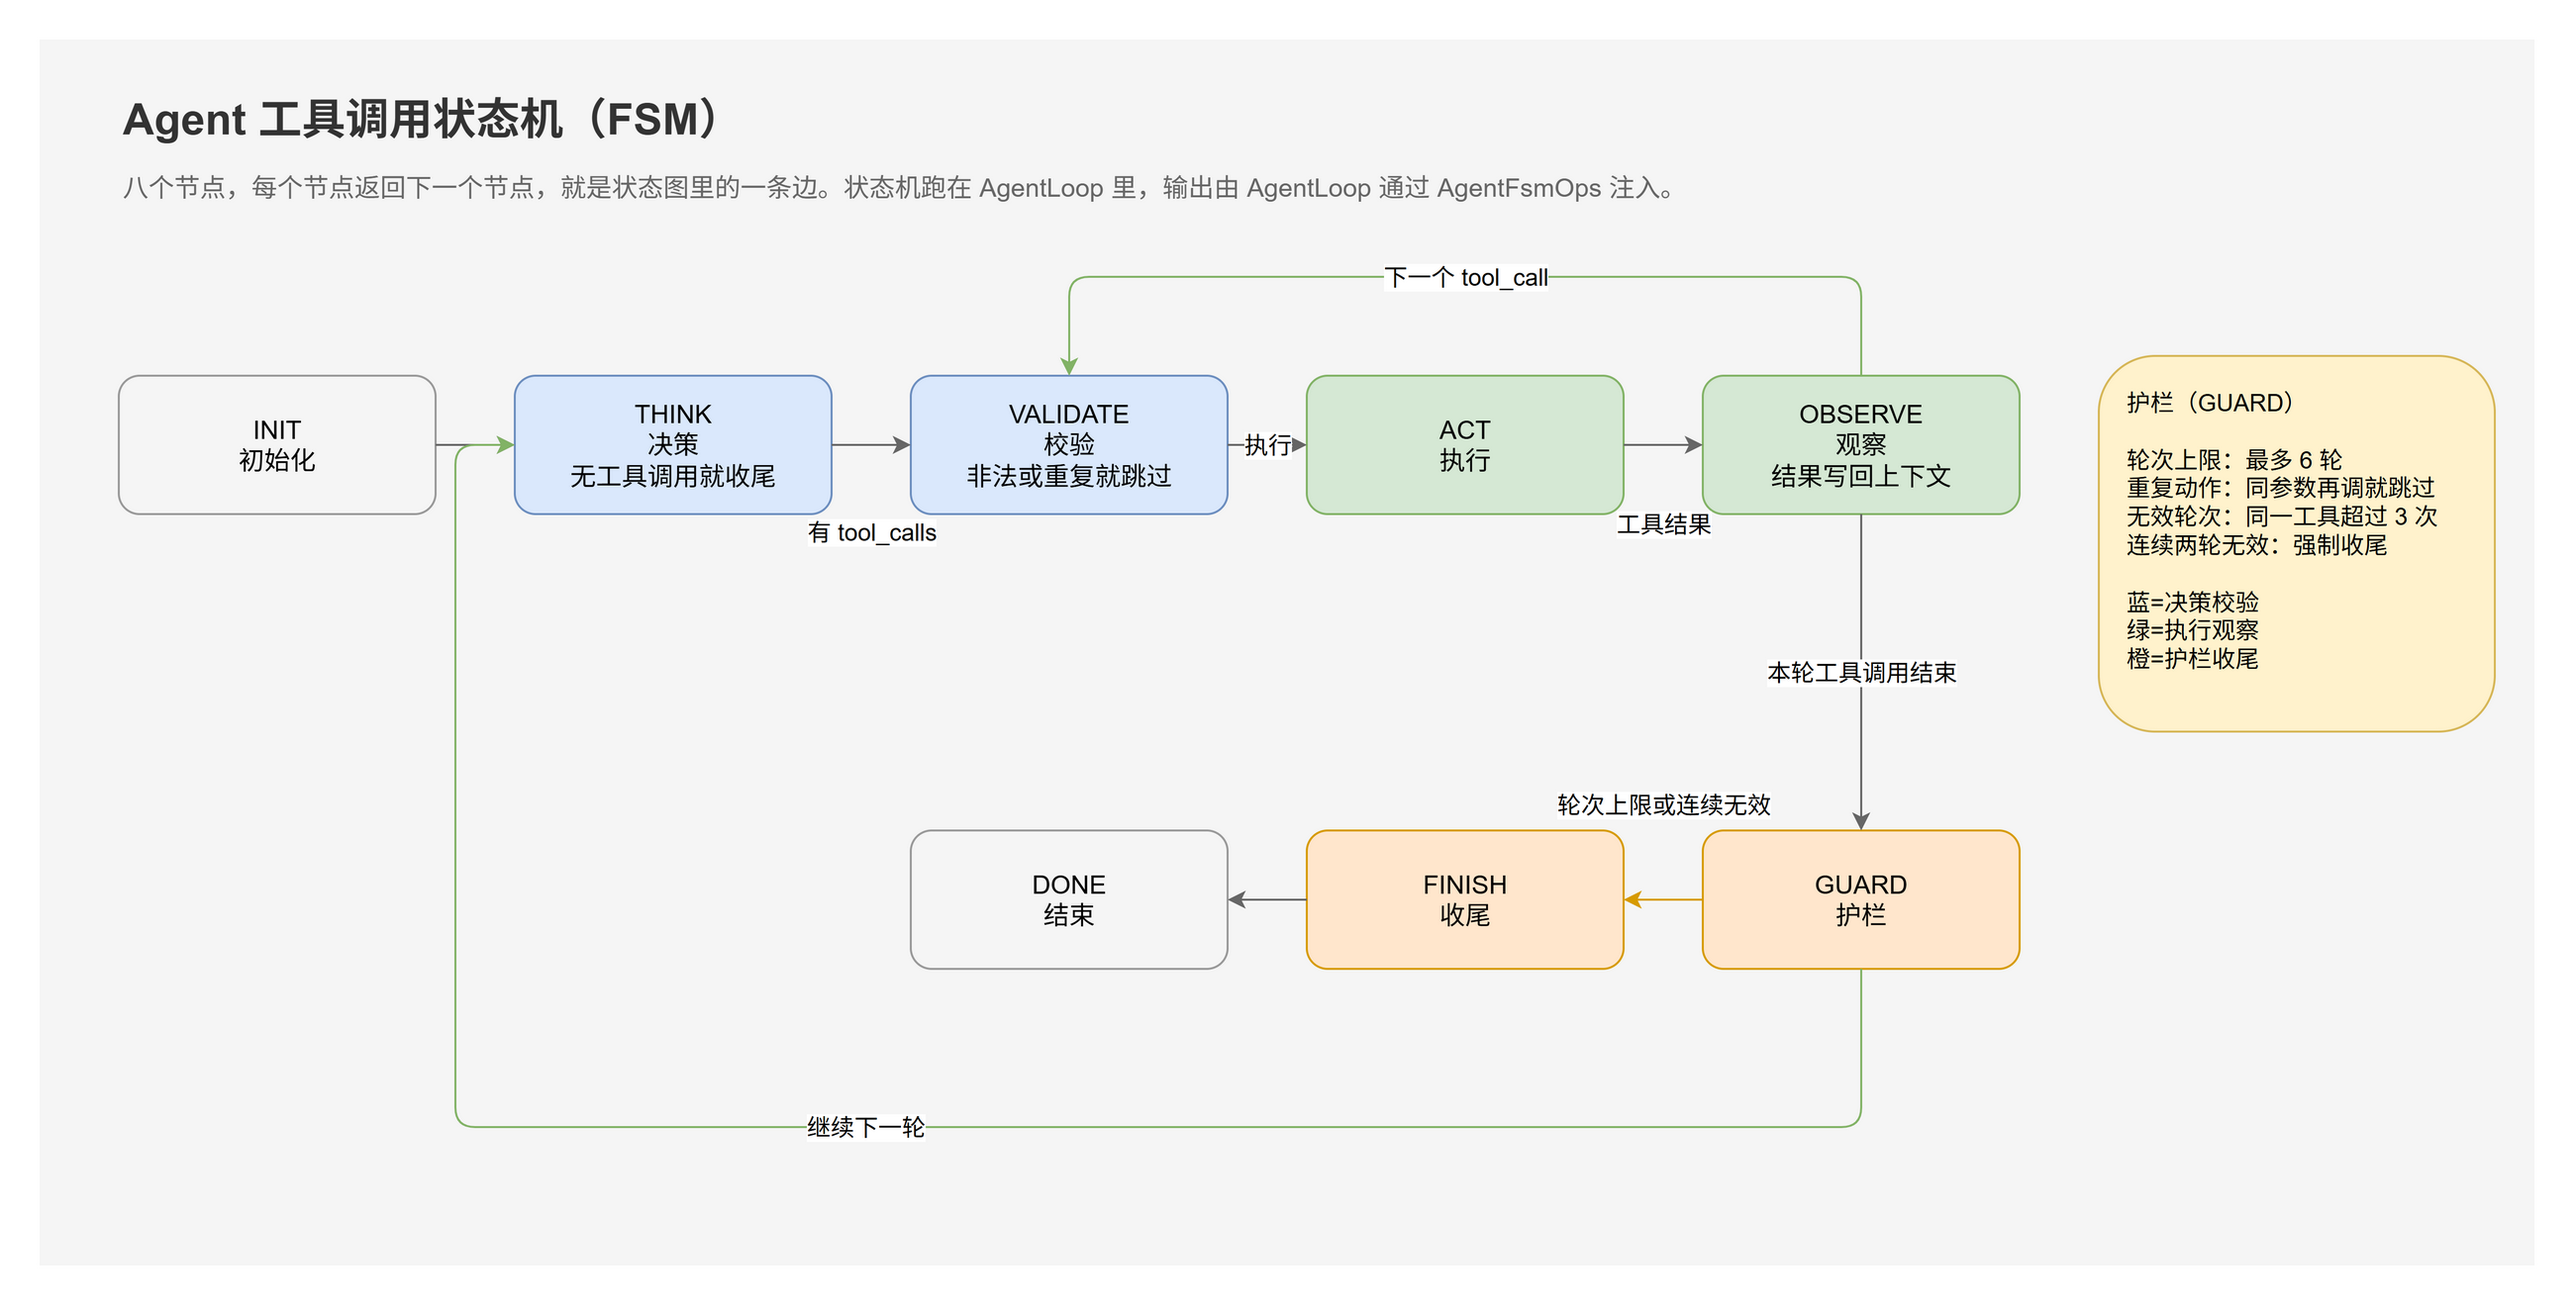
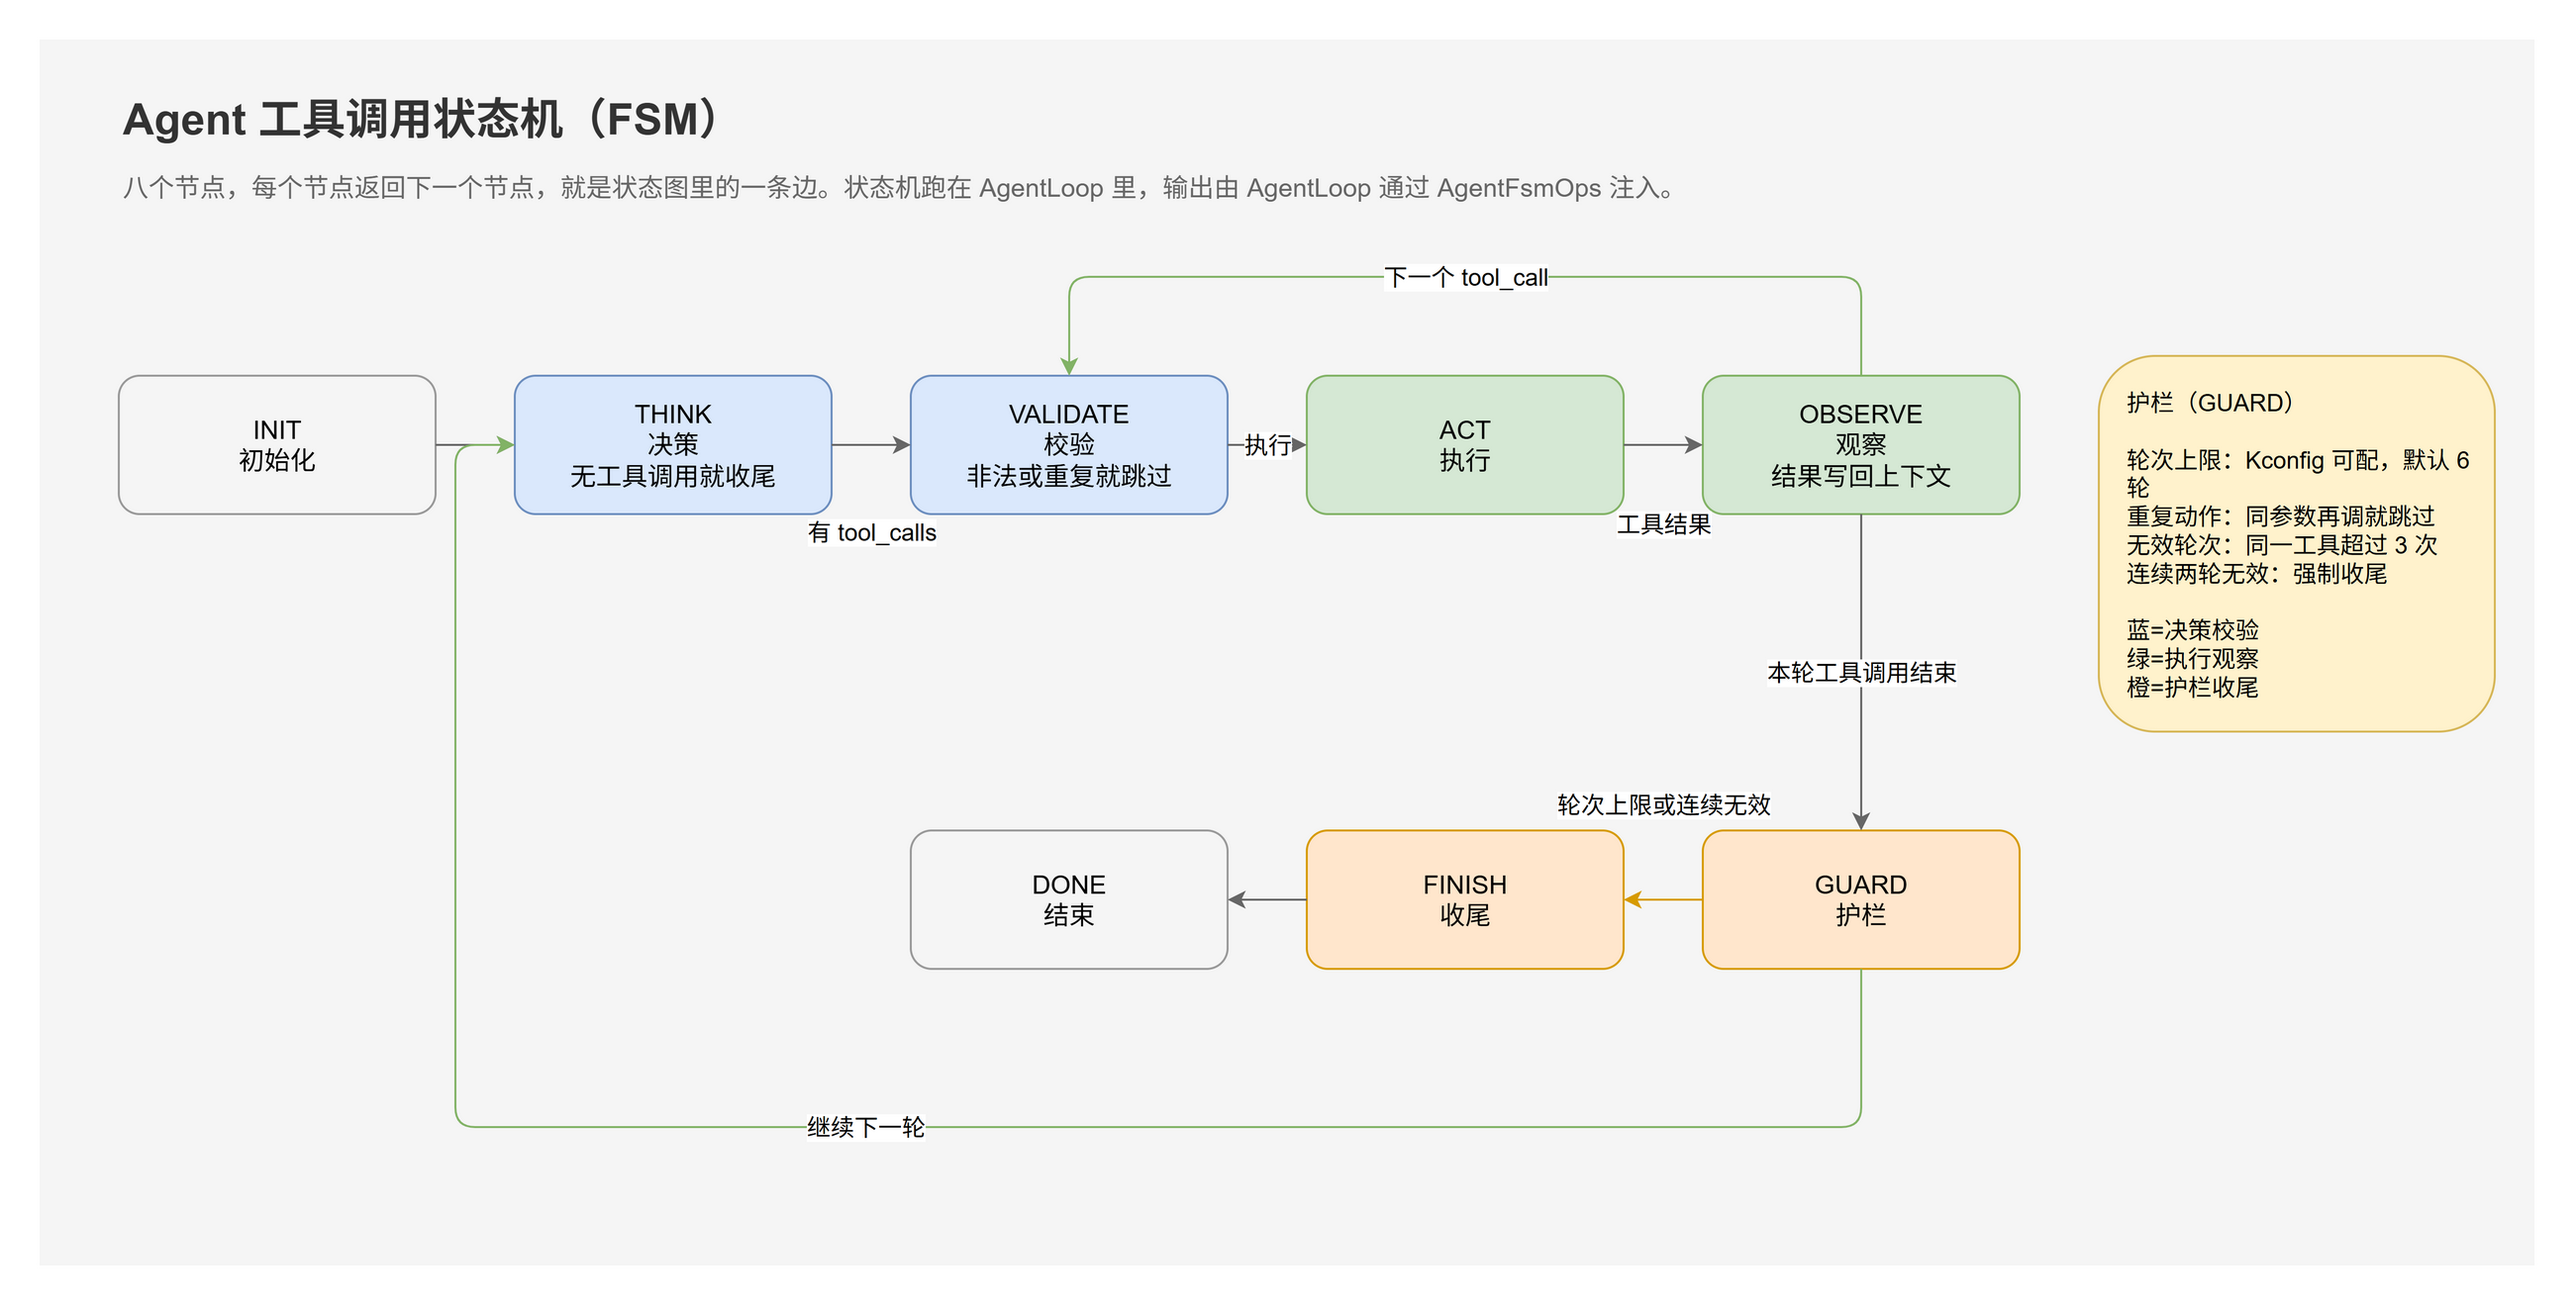
docs: 同步工具循环轮数的 Kconfig 说明
README、framework、tool_guide、api 里原先写死"最多 6 轮"，现在改成
引用 PKG_AGENT_TOOL_LOOP_MAX 并标出默认值与取值范围。README 的选项
表和 framework 的宏表各补一行，状态机图里的护栏说明改成"Kconfig 可配"。

时序图里两处轮次描述一并改成引用宏名，图片重新导出。

Changed region(s): [[0.8094, 0.3411, 0.965, 0.5272]]

diff --git a/README.md b/README.md
@@ -7,7 +7,7 @@
 ## 功能
 
 - 流式对话：解析 SSE 响应，分别处理思考过程、回答正文与工具调用。
-- 工具调用：内置 `add`、`mul`、`compare` 三个示例工具、设备框架工具与 7 个 MQTT 工具，工具循环最多 6 轮。设备框架工具分通用层（7 个）与 8 个设备类模块（22 个），按 Kconfig 取舍。
+- 工具调用：内置 `add`、`mul`、`compare` 三个示例工具、设备框架工具与 7 个 MQTT 工具，工具循环轮数由 Kconfig 选项 `PKG_AGENT_TOOL_LOOP_MAX` 决定，默认 6 轮。设备框架工具分通用层（7 个）与 8 个设备类模块（22 个），按 Kconfig 取舍。
 - 设备框架工具：通用层 7 个工具统一走 `rt_device_*`，屏蔽具体驱动。GPIO、PWM、ADC、DAC、I2C、SPI、传感器、LED 八类各一个 `.c`，封装本类的专用 API。
 - 技能模块：`skills/*.md` 在构建时编进固件，目录注入系统提示词，模型按需加载正文。
 - 上下文管理：历史超过阈值时用滚动摘要压缩，压缩失败保留原始历史。
@@ -227,7 +227,7 @@ draw.io 源文件：[llm-protocol.drawio](./docs/diagrams/llm-protocol.drawio)
 
 工具循环由状态机驱动，节点与边的对应关系见 [框架文档](./docs/framework.md) 3.1。每轮由 `THINK` 节点向模型发一次请求。模型返回 `tool_calls` 时，框架先追加带 `tool_calls` 的 assistant 消息，再逐个校验并执行工具，把结果以 `role=tool` 消息写回上下文，然后进入下一轮。
 
-- 最多 6 轮工具调用。达到上限后，再发一次不带工具的请求，要求模型给出最终回答。
+- 最多跑几轮工具调用由 Kconfig 选项 `PKG_AGENT_TOOL_LOOP_MAX` 决定，默认 6，取值范围 1～32。达到上限后，再发一次不带工具的请求，要求模型给出最终回答。
 - 请求失败最多尝试 3 次，间隔依次为 1 s、2 s。
 - 同一工具、同一参数重复调用时，不再执行，直接返回“结果未变化，请直接回答”的 tool 消息。
 - 同一次用户请求中，同一工具调用超过 3 次时仍会执行，但计为无效轮次。连续两轮全部是无效调用时，强制模型用文本回答。
@@ -328,6 +328,7 @@ menuconfig 路径是 Agent 包 → `Agent Tool: Device Framework`。内核条件
 | `PKG_AGENT_STT_ENABLE` / `PKG_AGENT_STT_URL` | 本地语音转写开关与接口地址 |
 | `PKG_AGENT_DRIVER_AUDIO` | 音频驱动，独立于多模态 |
 | `PKG_AGENT_TOOL_MQTT_ENABLE` | MQTT 工具开关 |
+| `PKG_AGENT_TOOL_LOOP_MAX` | 一次请求最多跑几轮工具调用，默认 6，取值范围 1～32 |
 | `PKG_AGENT_TOOL_DEVICE` 与 `PKG_AGENT_TOOL_DEVICE_*` | 设备框架工具总开关与八个类模块开关 |
 | `PKG_AGENT_TOOL_MCP_ENABLE` | MCP 客户端开关，默认关闭 |
 | `PKG_AGENT_MCP_SERVER_URL` | MCP 服务端地址，默认 `http://192.168.1.100:8765/mcp` |
@@ -377,7 +378,7 @@ python -B build/skill_qemu/run_llm_live.py
 | 看不到思考过程 | 提供方使用 `reasoning_content` 字段 | 框架同时识别 `reasoning_content` 和 `reasoning` |
 | 工具参数不完整 | 流式分片的 `id` / `name` 为 `null` | 框架按 `index` 合并，缺失 `id` 时用 `call_<index>` 兜底 |
 | 日志出现 `-0x4c` 或 `http status=-76` | TLS 连接被对端或网络重置 | 请求会自动重试 3 次；同时降低上报频率，或调大 MQTT 注入间隔 |
-| 模型反复调用同一个工具 | 工具结果为空，或模型不认可结果 | 重复调用会被跳过；连续两轮无效调用或达到 6 轮时强制文本回答 |
+| 模型反复调用同一个工具 | 工具结果为空，或模型不认可结果 | 重复调用会被跳过；连续两轮无效调用或达到 `PKG_AGENT_TOOL_LOOP_MAX` 轮时强制文本回答 |
 | CLI 看不到兜底提示 | 兜底文本只投递输出邮箱时，CLI 不显示 | 兜底文本由 `agent_notify()` 同时走流式打印；仍看不到就检查通道是否实现了 `on_context` |
 | 未启动 MQTT 时查询报 `mqtt state busy` | 状态锁只在客户端启动时创建，未启动就取不到 | 锁为幂等懒创建，未启动也能读订阅表和历史 |
 | STT 转写失败 | 地址错误、服务未启动、模型未下载 | 检查 `PKG_AGENT_STT_URL`，确认文件服务器 `/stt` 可用 |

diff --git a/docs/framework.md b/docs/framework.md
@@ -80,7 +80,7 @@ draw.io 源文件：[agent-fsm.drawio](diagrams/agent-fsm.drawio)
 
 `agent_loop` 的规则：
 
-- 工具循环最多 6 轮，`AGENT_LOOP_MAX` 定义在 `inc/AgentFsm.h` 里，不是 Kconfig 选项。
+- 工具循环最多跑几轮由 Kconfig 的 `PKG_AGENT_TOOL_LOOP_MAX` 决定，默认 6，取值范围 1～32。`inc/AgentFsm.h` 里的 `AGENT_LOOP_MAX` 读取这个宏。
 - 每轮由 `THINK` 节点调一次 `chat()`。请求失败最多尝试 3 次，退避间隔为 1 s、2 s。
 - `THINK` 判定没有 `tool_calls` 时，本轮回答即为最终回答，转 `FINISH`。
 - 有 `tool_calls` 时，先追加带 `tool_calls` 的 assistant 消息，再由 `VALIDATE` 逐个校验、`ACT` 执行、`OBSERVE` 写回。
@@ -88,7 +88,7 @@ draw.io 源文件：[agent-fsm.drawio](diagrams/agent-fsm.drawio)
 - `VALIDATE` 发现同一工具调用超过 3 次时仍会执行，但计为无效调用。
 - `GUARD` 发现连续两轮全部是重复或无效调用时，跳出循环，强制生成文本回答。
 - 重复签名缓存与工具计数在 `INIT` 节点清零，不跨用户请求累计。
-- `GUARD` 判定达到 6 轮上限时转 `FINISH`，`FINISH` 再发一次不带工具的请求，要求模型给出最终回答。
+- `GUARD` 判定达到轮次上限时转 `FINISH`，`FINISH` 再发一次不带工具的请求，要求模型给出最终回答。
 - 工具不存在、参数不是合法 JSON、参数校验失败时，`OBSERVE` 补一条 tool 错误消息，保证每个 `tool_call_id` 都有结果。
 
 状态机不碰邮箱和 TTS，这两件事由 `AgentLoop.c` 通过 `AgentFsmOps` 注入：`emit_answer` 输出最终回答，`notify` 投递兜底提示。
@@ -395,7 +395,7 @@ sequenceDiagram
     ML->>ML: 追加 user 消息
     ML->>FSM: agent_fsm_run()，进入 INIT
 
-    loop 最多 6 轮
+    loop 最多 PKG_AGENT_TOOL_LOOP_MAX 轮（默认 6）
         Note over FSM,LLM: THINK 节点请求失败最多重试 3 次，间隔 1 s、2 s
         FSM->>LLM: chat()，流式请求
         LLM-->>FSM: reasoning / content / tool_calls
@@ -418,7 +418,7 @@ sequenceDiagram
         end
     end
 
-    opt 达到 6 轮或连续两轮无效调用
+    opt 达到轮次上限或连续两轮无效调用
         FSM->>LLM: chat(tools=NULL) 收尾
         LLM-->>FSM: 纯文本回答
         FSM->>MB: 输出最终回答
@@ -516,6 +516,7 @@ sequenceDiagram
 | `PKG_AGENT_STREAM_LINE_BUFSZ` | SSE 单行缓冲，默认 1024 |
 | `PKG_AGENT_MAX_TOOL_ARG_LEN` | 工具参数上限，默认 1024 |
 | `PKG_AGENT_MESSAGE_TRIM` | 上下文压缩触发阈值，默认 6；排除 system 和摘要后，消息数严格大于此值才尝试压缩 |
+| `PKG_AGENT_TOOL_LOOP_MAX` | 一次请求最多跑几轮工具调用，默认 6，取值范围 1～32 |
 
 沿用 `PKG_AGENT_MESSAGE_TRIM` 配置名，帮助说明已改为摘要压缩语义。它不再表示固定保留条数，最近消息的保留范围见 3.3。
 

diff --git a/docs/tool_guide.md b/docs/tool_guide.md
@@ -465,7 +465,7 @@ AGENT_TOOL_MODULE_EXPORT(pwm, pwm_tools)
 - 同一次用户请求中，同一工具、同一参数再次出现时，不再执行。框架会返回一条“结果未变化，请直接回答”的 tool 消息。最近 6 条调用签名会被记住。
 - 同一次用户请求中，同一工具调用超过 3 次时仍会执行，但计为无效调用。两组计数在状态机的 `INIT` 节点清零。
 - 连续两轮全部是重复或无效调用时，跳出工具循环，强制模型用文本回答。
-- 工具循环最多 6 轮。达到上限后，再发一次不带工具的请求，要求模型给出最终回答。
+- 工具循环最多跑几轮由 Kconfig 选项 `PKG_AGENT_TOOL_LOOP_MAX` 决定，默认 6，取值范围 1～32。达到上限后，再发一次不带工具的请求，要求模型给出最终回答。
 
 因此工具结果要尽量包含有效信息。返回空字符串或只有一句“失败”，会让模型继续重试。
 

diff --git a/docs/api.md b/docs/api.md
@@ -838,7 +838,7 @@ struct agent_skill
 
 | 宏 | 值 | 说明 |
 |---|---|---|
-| `AGENT_LOOP_MAX` | 6 | 一次请求最多跑几轮工具循环 |
+| `AGENT_LOOP_MAX` | `PKG_AGENT_TOOL_LOOP_MAX`，默认 6 | 一次请求最多跑几轮工具循环，取值范围 1～32 |
 | `AGENT_CHAT_RETRY_MAX` | 3 | 一次 LLM 请求最多重试几次 |
 | `AGENT_CHAT_MAX_TOKENS` | 32 × 1024 | 单次请求的 token 上限 |
 
